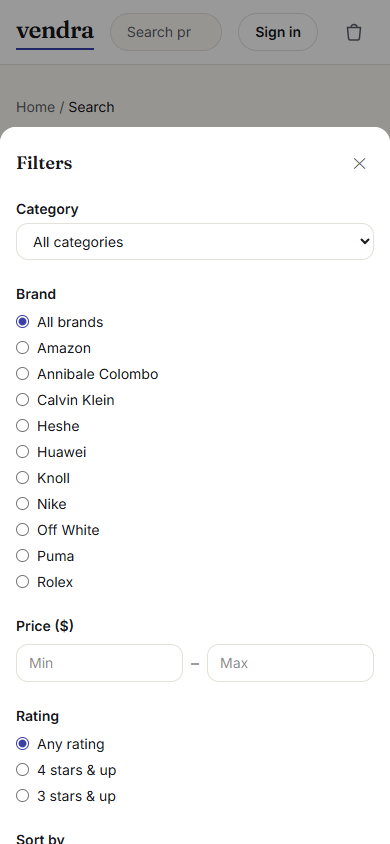
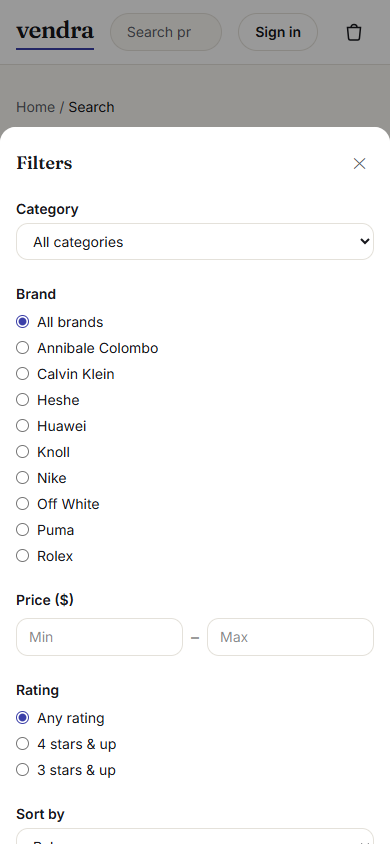
docs: slice 5 part 2 - progress notes + cart evidence

Changed region(s): [[0.0308, 0.4005, 0.4, 1.0], [0.5538, 0.7393, 0.6462, 0.8009], [0.8923, 0.0308, 0.9231, 0.0616]]

diff --git a/docs/progress.md b/docs/progress.md
@@ -43,6 +43,10 @@ Slice 4 notes (2026-10-03): `profiles` + trigger + own-row RLS applied (0005); e
 
 Slice 5 session — Part 1 notes (2026-10-03): seed cleanup — the one Amazon-named product (`amazon-echo-plus`) removed from `data/seed-products.json`; `npm run seed` → `deleted products=1`, `categories=22 products=183 images=422`; `npm run verify-seed` → `verify-seed: OK` (expectations 184→183, `fetch-seed.ts` now excludes `/amazon/i`); ADR-021 gained the follow-up line. **Next action:** Part 2 — Slice 5 cart (guest + merge, RLS, /cart page).
 
+Slice 5 session — Part 2 notes (2026-10-03): cart built — `0006_cart.sql` (`cart_items` + `cart_merges` + own-row RLS) pasted by owner, verified **8/8** by `tests/cart_rls.test.ts`; guest cart lives in `vendra.cart` as plain `[{productId, qty}]` with an in-memory `pendingMergeId`, merge is idempotent via `cart_merges` upsert `ignoreDuplicates` (double-run → `alreadyMerged`, no qty change), storage cleared only after the server confirms; **pricing split into pure `lib/pricing.ts`** (re-exported from `lib/shop.ts`) so client components never pull `cookies()` into the browser bundle (build error caught at Phase 2); money always server-computed, optimistic qty only, `revalidatePath("/", "layout")` after mutations so the header badge refreshes.
+
+Part 2 verification: typecheck 0, vitest **67/67** (8 files), build clean, e2e **66/66** (47 legacy + 19 new Phase F: guest add→toast+badge, stepper qty 2, server summary + free-ship line, checkout→signin with `next=/checkout`, remove→empty state, sign-in merge clears storage, signed-in add persists across reload, qty survives reload, 390 cart no horizontal scroll, sign-out cleanup). **Real bug found by e2e:** `CartLineRow`'s image `<Link>` lacked `relative`, so `ProductImage`'s `fill` img escaped its clip and intercepted stepper clicks — fixed with `relative block`. Screenshots `docs/evidence/05-cart.png` / `05-cart-mobile.png`. **Next action:** Part 3 — category pages.
+
 ## Open items
 
 - **OPEN QUESTION** pain points: ~~owner to add own entries to `spec.md` §7.1~~ — owner's pain points
